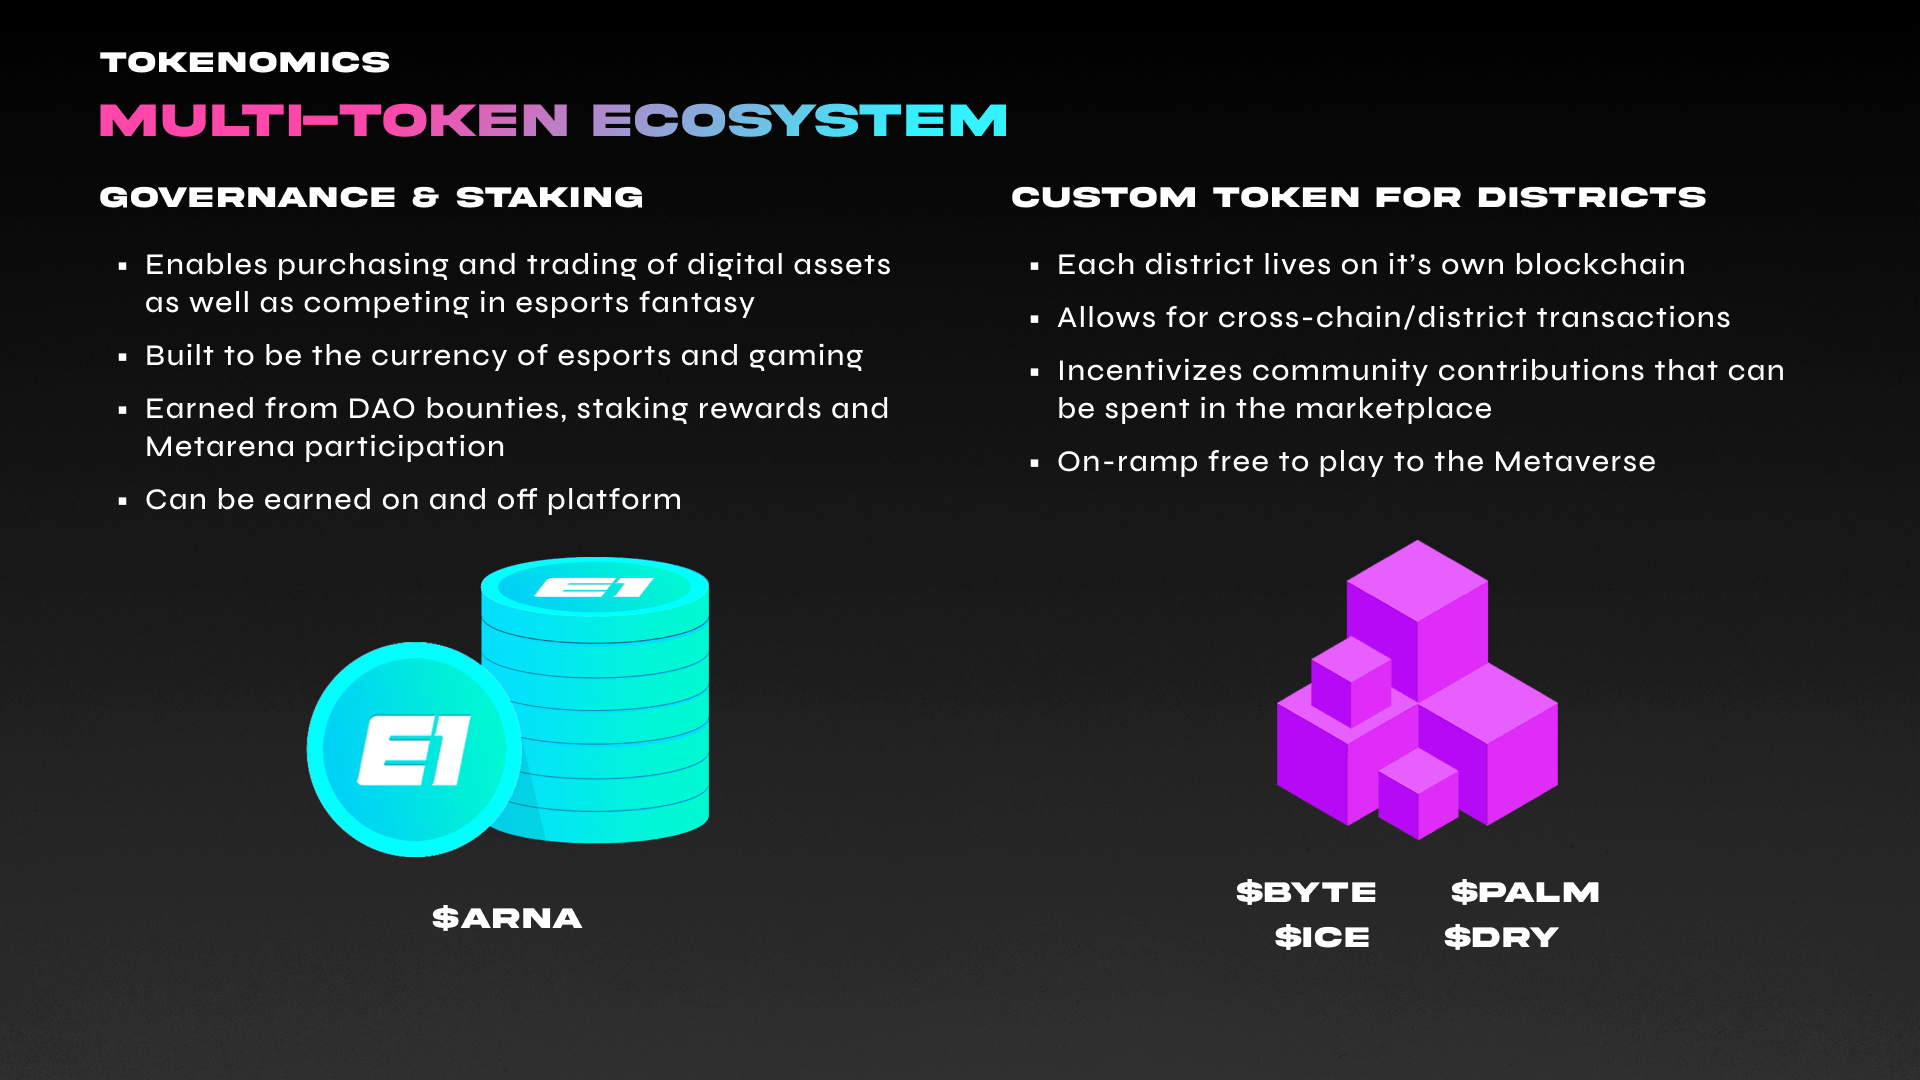
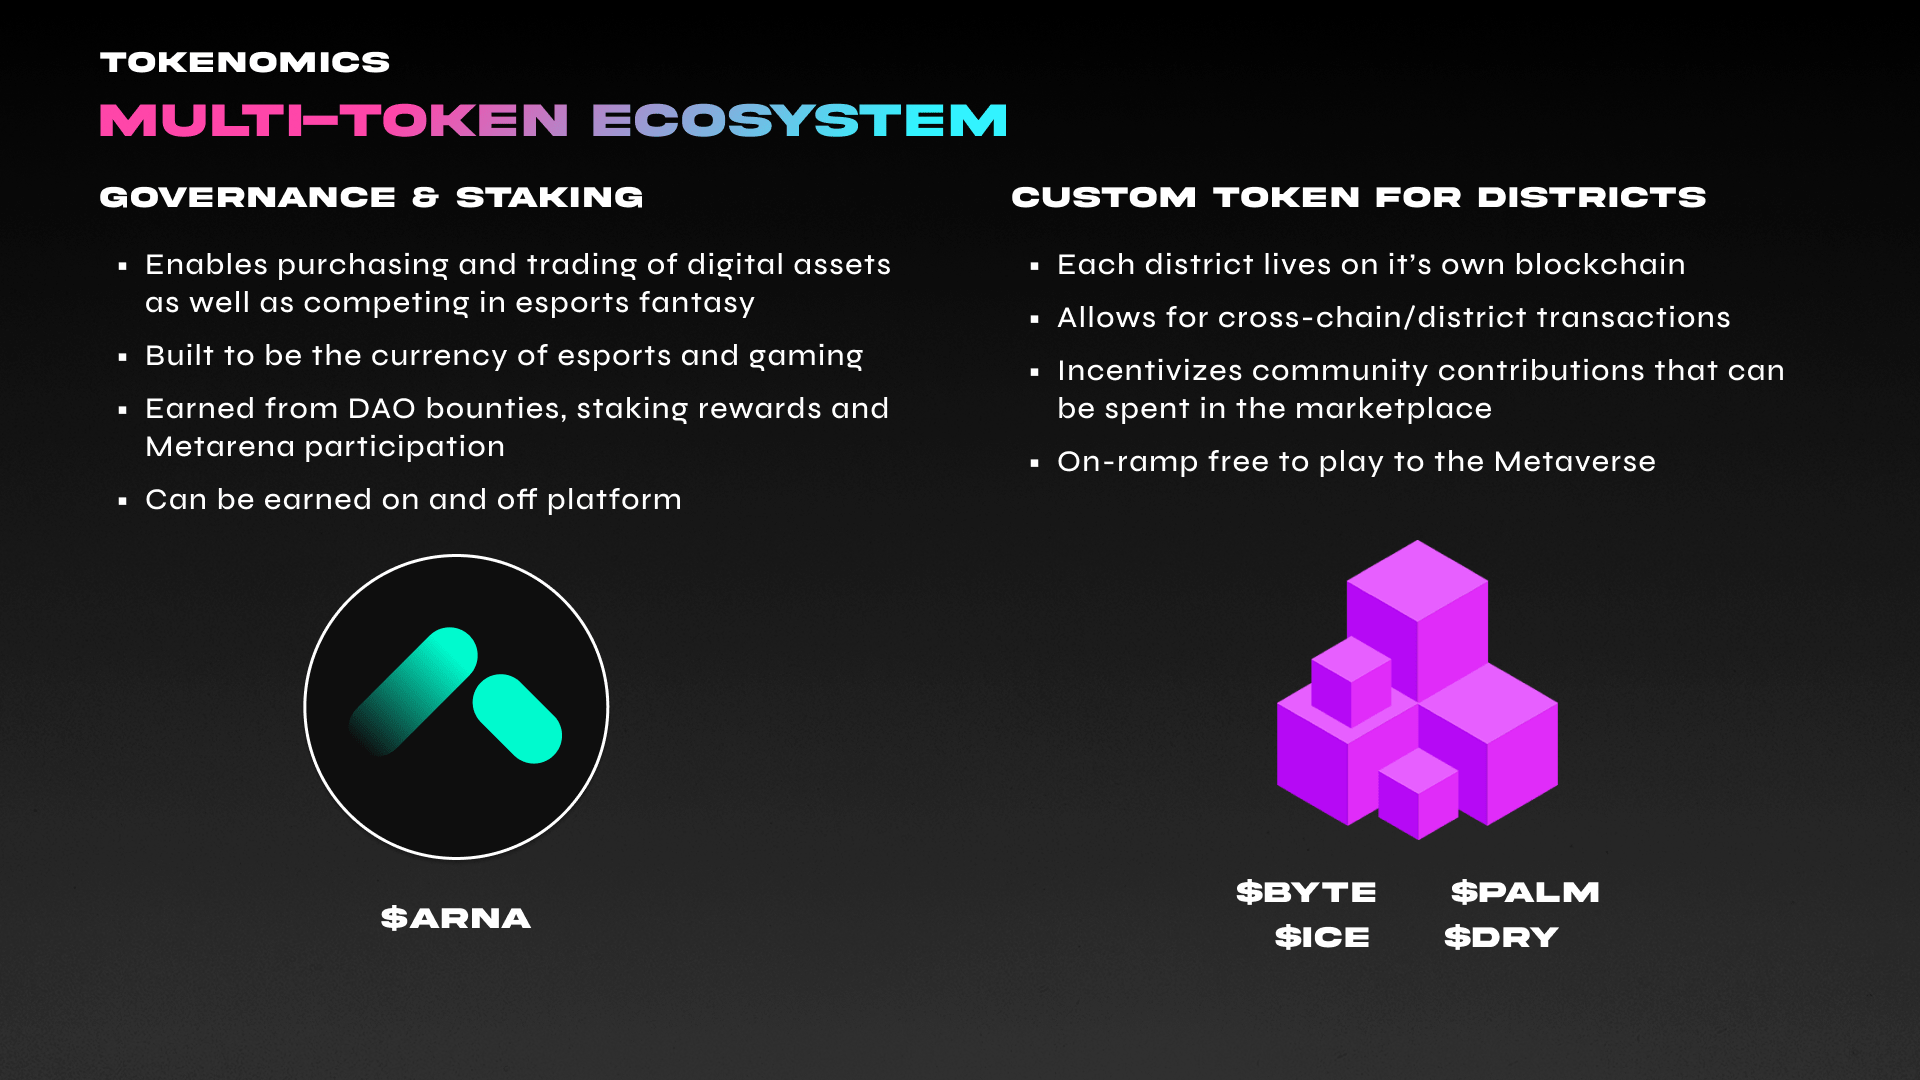
GitBook: [#685] No subject

diff --git a/economy/tokenomics/esport.md b/economy/tokenomics/esport.md
@@ -1,4 +1,4 @@
-# Primary Token
+# ARNA
 
 {% hint style="info" %}
 **Total Supply:** 1,000,000,000
@@ -10,15 +10,15 @@ $ARNA is an ERC-20 utility token that serves as the primary utility asset for tr
 
 ### What is $ARNA?
 
-Our primary token, **ARNA**, is a fungible governance, staking, and access token made for gamers and esports fans. Over the next six years One (1) Billion ARNA tokens will be minted and distributed and will be used to power our entire platform and ecosystem through multiple utilizations. Users can acquire ESPORT tokens via direct purchase, contest rewards, staking incentives, and through ASSET sales in the marketplace.
+Our primary token, **ARNA**, is fungible governance, staking, and access token made for gamers and esports fans. Over the next six years, One (1) Billion ARNA tokens will be minted and distributed and used to power our entire platform and ecosystem through multiple utilizations. Users can acquire ESPORT tokens via direct purchase, contest rewards, staking incentives, and through ASSET sales in the marketplace.
 
-ESPORT tokens are used to mint and purchase NFT assets, along with staking to gain deeper access to the platform. The tokens revenue is captured via the [Economy](../monetization.md).
+ESPORT tokens are used to mint and purchase NFT assets and staking to gain deeper access to the platform. The tokens revenue is captured via the [Economy](../monetization.md).
 
 ### What is $ARNA used for?
 
-The **ARNA** token is the catalyst of the ecosystem and provides a way for players to compete in fantasy contests. Players can assemble a team of digital trading cards representing specific pro-players that get benchmarked against their real-world performance, determining how well your team does. Our vast array of league types makes competing accessible to anyone.
+The **ARNA** token is the catalyst of the ecosystem and provides a way for players to compete in fantasy contests. Players can assemble a team of digital trading cards representing specific pro-players that get benchmarked against their real-world performance, determining how well their team does. Our vast array of league types makes competing accessible to anyone.
 
-![](<../../.gitbook/assets/Esport Token.png>)
+![](<../../.gitbook/assets/ARNA Token Flow.png>)
 
 ## Stake to Play
 
@@ -26,24 +26,24 @@ Token staking is a consensus mechanism where users are incentivized to lock up t
 
 To address the issues we see in "Play-to-Earn" blockchain games, our team has created a new way to play, "**Stake-to-Play.**" This method encourages users to stake their **$ARNA** token, which, in addition to yield and other rewards, unlocks access to fantasy leagues and contests based on the amount they have staked.
 
-### Why should I stake $ESPORT?
+### Why should I stake $ARNA?
 
-Through our staking method, you can play how you want, when you want, and never have to worry about losing money or time. When you stake **ESPORT**, you are rewarded with **xESPORT** which provides contest access, account features, and unique experiences based on the amount and duration the tokens are staked. The ultimate value for staking **ESPORT** will derive from access and status, with more features introduced over time to incentivize staking.
+Through our staking method, you can play how and when you want and never have to worry about losing money or time. When you stake **ARNA**, you are rewarded with **xARNA,** which provides contest access, account features, and unique experiences based on the amount and duration the tokens are staked. The ultimate value for staking **ARNA** will derive from access and status, with more features introduced over time to incentivize staking.
 
-The initial rate of **ESPORT** to **xESPORT** is 1:1, but as rewards are added, one **xESPORT** will be worth increasingly more **ESPORT**.&#x20;
+The initial rate of **ARNA** to **xARNA** is 1:1, but as rewards are added, one **xARNA** will be worth increasingly more **ARNA**.&#x20;
 
-### **Arena Access**
+### **Metarena Access**
 
-Instead of risking tokens to participate in contests, access to Arena's are based on the number of tokens staked to the ecosystem.
+Instead of risking tokens to participate in contests, access to Arena is based on the number of tokens staked to the ecosystem.
 
-| Arena Tier | $ESPORT Staked  |
-| ---------- | --------------- |
-| **Tier 0** | -               |
-| **Tier 1** | 50 **xESPORT**  |
-| **Tier 2** | 100 **xESPORT** |
-| **Tier 3** | 250 **xESPORT** |
+| Arena Tier | $ARNA Staked |
+| ---------- | ------------ |
+| **Tier 0** | 50           |
+| **Tier 1** | 500          |
+| **Tier 2** | 1,500        |
+| **Tier 3** | 5,000        |
 
-### What are the incentives for staking ESPORT?
+### Staking Incentives
 
 {% tabs %}
 {% tab title="Fantasy" %}
@@ -62,7 +62,7 @@ Instead of risking tokens to participate in contests, access to Arena's are base
 {% tab title="Exclusivity" %}
 * Early/exclusive access to new releases
 * Limited edition NFTs
-* Ability to purchase with ESPORT or BYTE
+* Ability to purchase with tokens
 {% endtab %}
 
 {% tab title="Airdrops" %}
@@ -100,22 +100,22 @@ Instead of risking tokens to participate in contests, access to Arena's are base
 
 ### Buyback
 
-A specific portion of transaction fees will be used to buy back **$ESPORT** tokens on the open market, which will be transferred to the treasury and staking reward pools.
+A specific portion of transaction fees will be used to buy back **$ARNA** tokens on the open market, which will be transferred to the treasury and staking reward pools.
 
 ### LP Pools
 
-**$ESPORT** holders can participate in various token pools and programs by staking their **$ESPORT** tokens. By providing liquidity, participants will earn rewards in yield, exclusive arena access, and premium features.&#x20;
+**$ARNA** holders can participate in various token pools and programs by staking their **$ARNA** tokens. By providing liquidity, participants will earn rewards in yield, exclusive arena access, and premium features.&#x20;
 
 ### Governance
 
-We believe in giving our community the power to influence decisions and incentivize active participation. We're doing this through the creation of a DAO. The $ESPORT Token will act as a governance instrument, enabling token owners and verified creators to vote and influence new features and product expansion decisions. The DAO verification board will most importantly approve new partners and certify their token and NFT authenticity.
+We believe in giving our community the power to influence decisions and incentivize active participation. We're doing this through the creation of a DAO. The **$ARNA** Token will act as a governance instrument, enabling token owners and verified creators to vote and influence new features and product expansion decisions. The DAO verification board will most importantly approve new partners and certify their token and NFT authenticity.
 
-Anyone that holds $ESPORT will have the ability to participate in the community DAO. Those that actively participate in the DAO will earn rewards & incentives associated with their level of involvement and will have access to future councils and leadership teams with even greater token allocations. Ultimately, participating in the DAO will provide you with the ability to:
+Anyone that holds **$ARNA** will have the ability to participate in the community DAO. Those that actively participate in the DAO will earn rewards & incentives associated with their level of involvement and will have access to future councils and leadership teams with even greater token allocations. Ultimately, participating in the DAO will provide you with the ability to:
 
 * Voting on new game titles to support
 * Delegating voting membership
 * Approving new investments
 * Defining and submitting new proposals
 * Onboarding brand partners & providing support
-* Defining new platform features and integrations including 3rd party support.
+* Defining new platform features and integrations, including 3rd party support.
 * Much more to come

diff --git a/metaverse/avatars.md b/metaverse/avatars.md
@@ -1,12 +1,10 @@
 # Avatars
 
-![](broken-reference)
+We’re living in the future of the metaverse, where everyone has their own digital identity. This future feature release will allow you to create a custom virtual avatar to represent yourself in the esports metaverse. Completely customizable with the ability to transform over time.
 
-We’re living in the future of the metaverse where everyone has their own digital identity. This future feature release will allow you to create a custom virtual avatar to represent yourself in the esports metaverse. Completely customizable with the ability to transform over time.
+### ONE Passport
 
-### ONEPassport
-
-Our esports and gaming crypto wallet (Codename: ONEPassport) is our solution to decentralization in gaming. Later this year we will begin to roll out the first blockchain enabled wallet that connects to all of your gaming accounts, regardless if they are built on the blockchain or not, and brings it all together in one location. Showcase your skins, cosmetics, achievements, levels and more, both inside the metaverse and out, that you can carry around with you wherever you go built specifically for esports fans and gamers worldwide.&#x20;
+Our esports and gaming crypto wallet (Codename: ONE Passport) is our solution to decentralization in gaming. Later this year, we will begin to roll out the first blockchain-enabled wallet that connects to all of your gaming accounts, regardless if they are built on the blockchain or not, and brings it all together in one location. Showcase your skins, cosmetics, achievements, levels, and more, both inside the metaverse and out, that you can carry around with you wherever you go, explicitly built for esports fans and gamers worldwide.&#x20;
 
 ![](../.gitbook/assets/Passport.png)
 

diff --git a/SUMMARY.md b/SUMMARY.md
@@ -15,14 +15,14 @@
   * [Fantasy Esports](metaverse/experiences/fantasy-esports.md)
   * [Simulated Leagues](metaverse/experiences/esports-sim.md)
   * [Skill-Based](metaverse/experiences/skill-based.md)
-  * [Online Events](metaverse/experiences/online-events.md)
+  * [Online Events](metaverse/experiences/virtual-events.md)
 * [OneDAO](metaverse/onedao.md)
 * [Avatars](metaverse/avatars.md)
 
 ## 💰 Economy
 
 * [Tokenomics](economy/tokenomics/README.md)
-  * [Primary Token](economy/tokenomics/esport.md)
+  * [ARNA](economy/tokenomics/esport.md)
   * [District Token](economy/tokenomics/byte.md)
 * [Distribution](economy/distribution.md)
 * [Monetization](economy/monetization.md)

diff --git a/metaverse/experiences/README.md b/metaverse/experiences/README.md
@@ -28,6 +28,6 @@ Integrations work similarly to experiences, with the difference being they are g
 [esports-sim.md](esports-sim.md)
 {% endcontent-ref %}
 
-{% content-ref url="online-events.md" %}
-[online-events.md](online-events.md)
+{% content-ref url="virtual-events.md" %}
+[virtual-events.md](virtual-events.md)
 {% endcontent-ref %}
